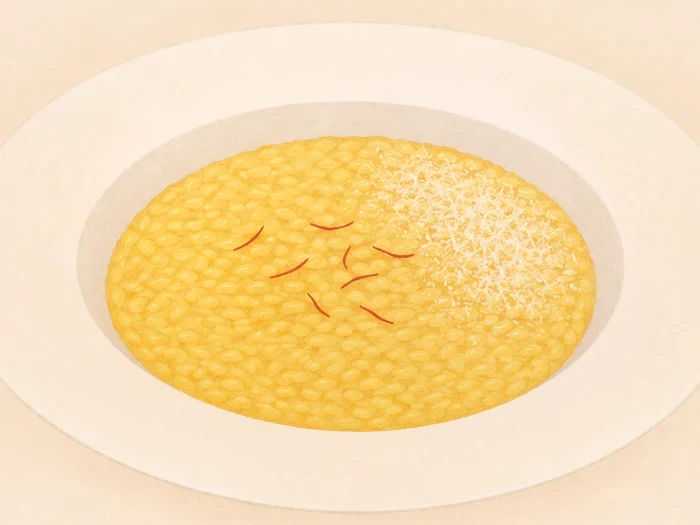
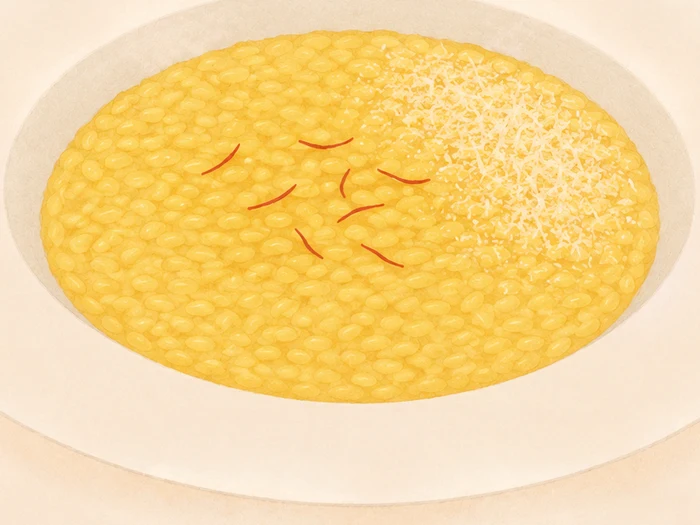
義式六張對齊成同一個尺度：食物寬度佔畫面 82–94%
原本混在一起看很明顯大小不一（使用者：「義式系列真的太明顯大小比例不一致了」）。
以阿馬特里恰納為基準重切 r3 / r14 / r15 / r17，從食物寬度 70–72% 拉到 82–94%。
r7 番茄肉醬維持不動 —— 那是一整鍋常備菜，本來就該滿，不套這條。

⚠ 對齊要用「食物的寬度」，不是高度也不是面積：
- 高度：量出來基準 80%、其他 70–75%，差距解釋不了肉眼看到的落差
- 面積：對得上（基準 46%、蘆筍燉飯只有 18%，差 2.5 倍），但不能拿來當目標 ——
  扁平的麵盤撐滿高度也填不滿面積，程式自動搜尋會一路撞到上限。
  阿馬特里恰納的麵是隆起的圓丘才填得滿
- 寬度：可量、可逼近、跟肉眼一致

ASSETS 59 → 60

diff --git a/index.html b/index.html
@@ -774,7 +774,7 @@ ol.steps li::before {
 </div>
 
 <!-- 改完 recipes.js 就把 v 往上加一號，不然瀏覽器會一直吃舊的快取 -->
-<script src="strings.js?v=11"></script>
+<script src="strings.js?v=12"></script>
 <script src="recipes.js?v=90"></script>
 <script>
 /* ══════════════════════════════════════════════
@@ -783,7 +783,7 @@ ol.steps li::before {
    ══════════════════════════════════════════════ */
 
 /* 素材版本。換過圖就 bump 一次，否則瀏覽器會一直用舊的快取 */
-const ASSETS = '59';
+const ASSETS = '60';
 const asset = p => p + '?v=' + ASSETS;
 
 const $ = (s, el = document) => el.querySelector(s);
